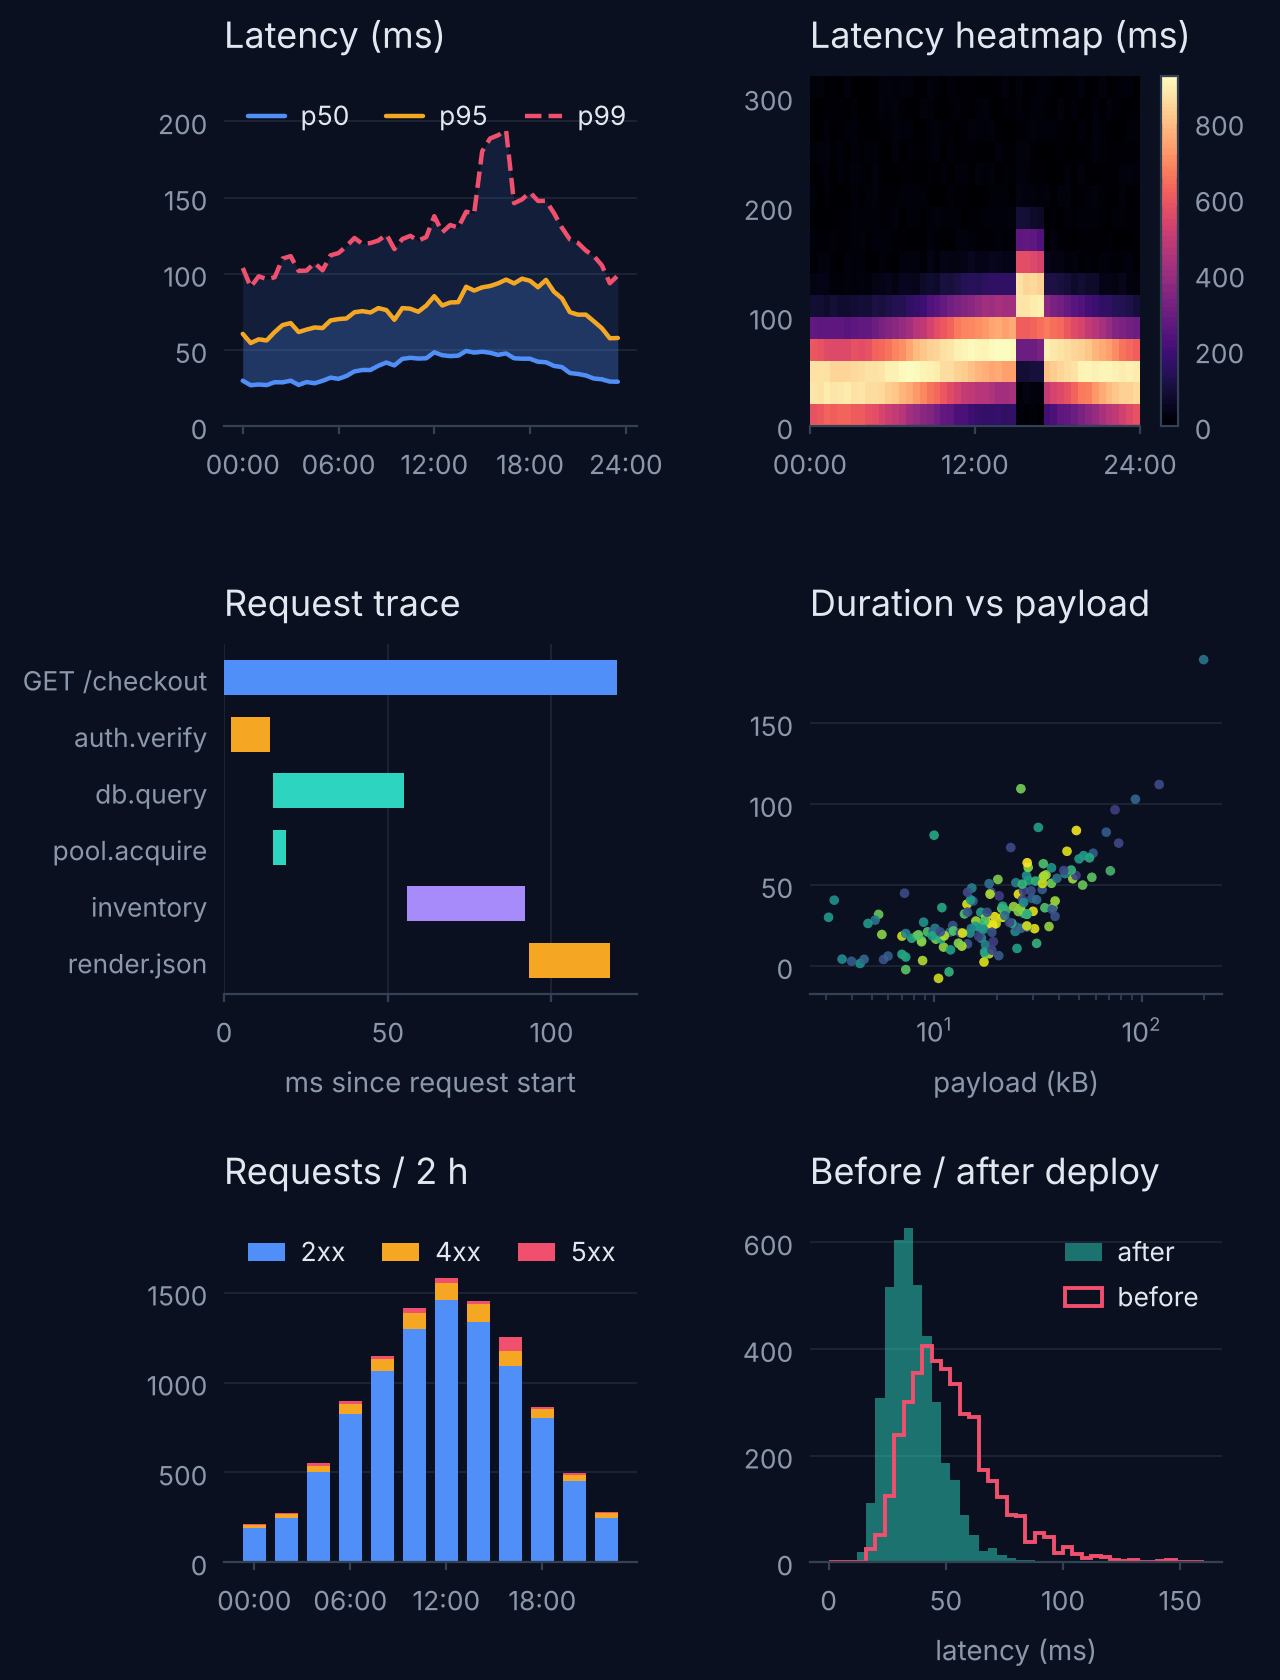
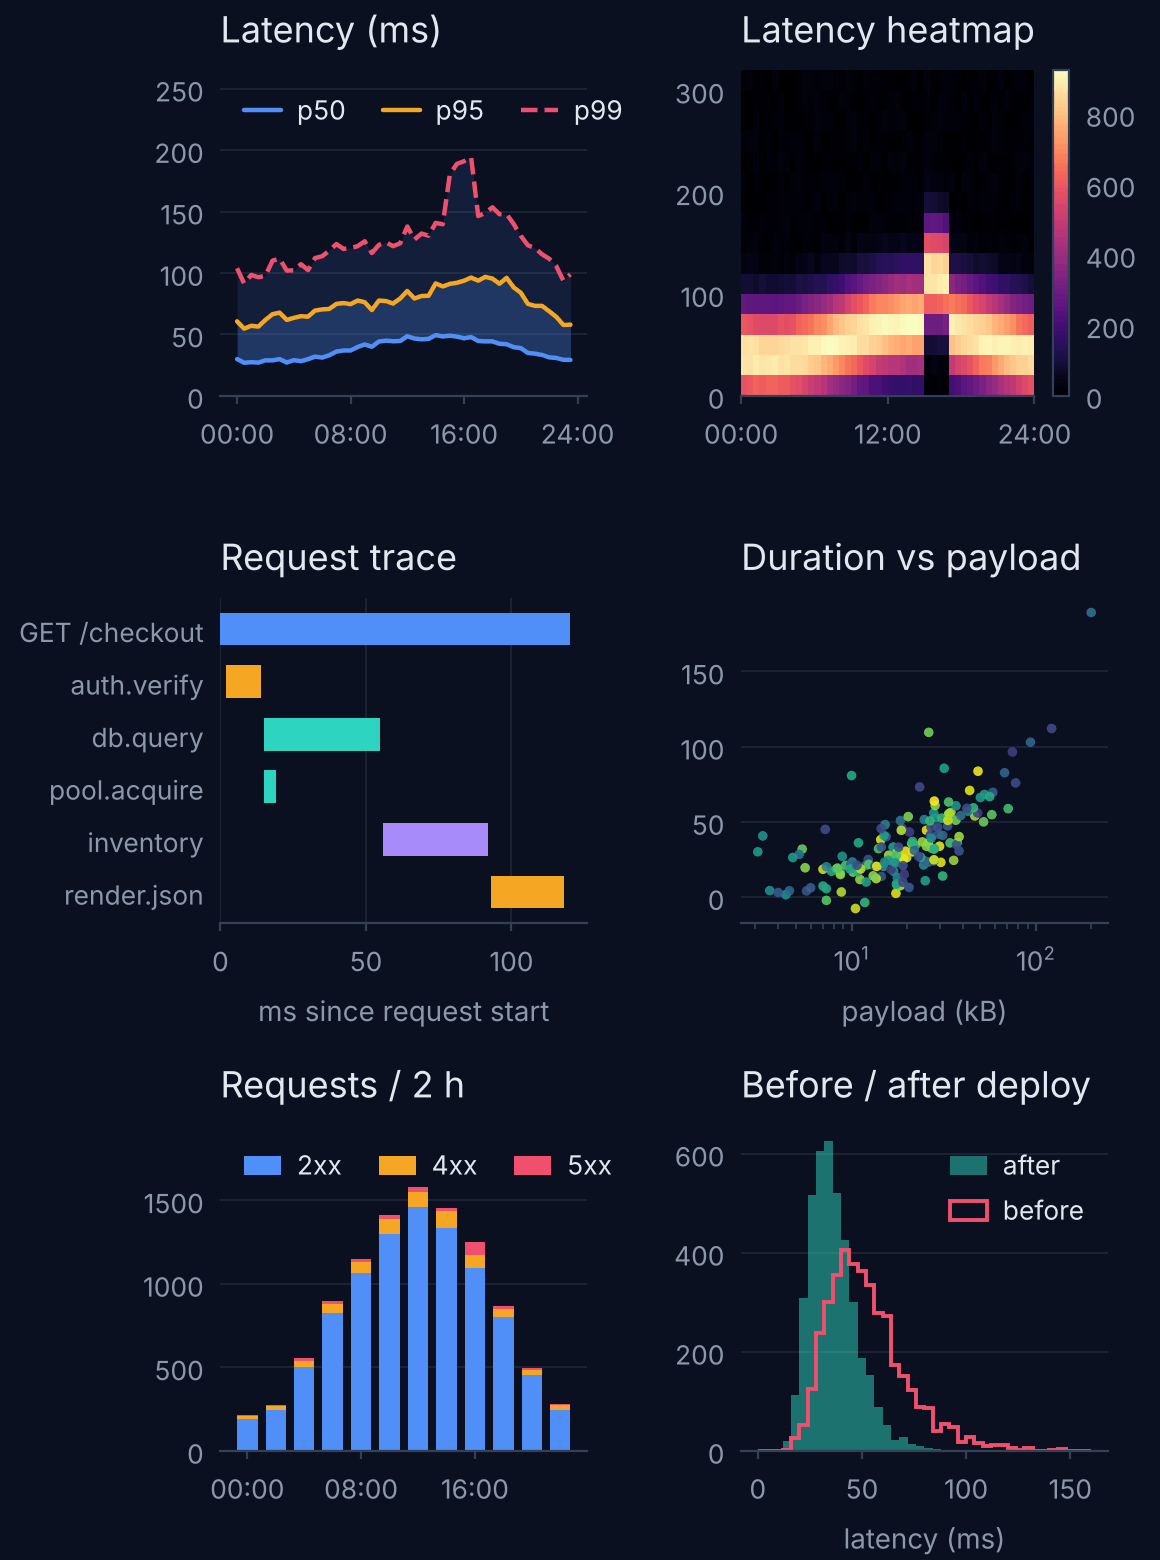
README: proof images first, code within mobile width, larger hero type
Claude-Session: https://claude.ai/code/session_01AoUnT3sji86cxB4AwysPwL

diff --git a/scripts/readme_images.ts b/scripts/readme_images.ts
@@ -45,8 +45,8 @@ export const HERO = [
 export function hero(style: string, heat: string, cmap: string, vmin: number): Figure {
   // larger type than the sheets' dashboard sizes: the gallery is read on a phone, about 360 px wide
   const rc = { 'font.size': 10, 'axes.titlesize': 13, 'axes.labelsize': 10, 'xtick.labelsize': 9.5, 'ytick.labelsize': 9.5, 'legend.fontsize': 9.5 };
-  const [fig, ax] = subplots(3, 2, { figsize: [6.4, 8.4], style: [style, rc] });
-  const ticks = [0, 6, 12, 18, 24], tickLabels = ['00:00', '06:00', '12:00', '18:00', '24:00'];
+  const [fig, ax] = subplots(3, 2, { figsize: [5.8, 7.8], style: [style, rc] });
+  const ticks = [0, 8, 16, 24], tickLabels = ['00:00', '08:00', '16:00', '24:00'];
 
   const lat = ax[0][0];
   lat.fill_between(D.hours, D.p50, D.p99, { color: 'C0', alpha: 0.12, linewidth: 0 });
@@ -55,14 +55,14 @@ export function hero(style: string, heat: string, cmap: string, vmin: number): F
   lat.plot(D.hours, D.p95, { color: 'C1', label: 'p95' });
   lat.plot(D.hours, D.p99, { color: 'C3', label: 'p99', linestyle: '--' });
   lat.set_xticks(ticks); lat.set_xticklabels(tickLabels);
-  lat.set_ylim(0, 230);
+  lat.set_ylim(0, 265);
   lat.legend({ loc: 'upper left', ncols: 3 });
   lat.set_title('Latency (ms)');
 
   const hm = ax[0][1];
   const im = hm.imshow(D.heat, { cmap: heat, origin: 'lower', aspect: 'auto', interpolation: 'nearest', extent: [0, 24, 0, 320] });
   hm.set_xticks([0, 12, 24]); hm.set_xticklabels(['00:00', '12:00', '24:00']);
-  hm.set_title('Latency heatmap (ms)');
+  hm.set_title('Latency heatmap');
   hm.grid(false);
   fig.colorbar(im, { ax: hm });
 
@@ -86,7 +86,7 @@ export function hero(style: string, heat: string, cmap: string, vmin: number): F
   req.bar(hrs, D.e4, { bottom: D.ok, color: 'C1', width: 1.44, label: '4xx' });
   req.bar(hrs, D.e5, { bottom: D.ok.map((v, i) => v + D.e4[i]), color: 'C3', width: 1.44, label: '5xx' });
   req.legend({ loc: 'upper left', ncols: 3 });
-  req.set_xticks([0, 6, 12, 18]); req.set_xticklabels(['00:00', '06:00', '12:00', '18:00']);
+  req.set_xticks([0, 8, 16]); req.set_xticklabels(['00:00', '08:00', '16:00']);
   req.set_ylim(0, 1950);
   req.set_title('Requests / 2 h');
 
@@ -97,7 +97,7 @@ export function hero(style: string, heat: string, cmap: string, vmin: number): F
   hs.set_xlabel('latency (ms)');
   hs.set_title('Before / after deploy');
 
-  fig.subplots_adjust({ left: 0.175, right: 0.955, bottom: 0.07, top: 0.955, wspace: 0.42, hspace: 0.62 });
+  fig.subplots_adjust({ left: 0.19, right: 0.955, bottom: 0.07, top: 0.955, wspace: 0.42, hspace: 0.62 });
   return fig;
 }
 

diff --git a/README.md b/README.md
@@ -18,67 +18,80 @@ rendering — its layout, tickers, text and its Agg rasterizer — that runs in 
 
 ## Same code, same pixels
 
-matplotlib, in Python:
-
-```python
-import matplotlib.pyplot as plt
-
-spans = [("GET /api/checkout", 0, 120, "C0"), ("├─ auth.verify", 2, 14, "C1"),
-         ("├─ db.query orders", 15, 55, "C2"), ("└─ pool.acquire", 15, 19, "C2"),
-         ("├─ inventory.reserve", 56, 92, "C4"), ("└─ render.json", 93, 118, "C1")]
-
-plt.rcParams["axes.axisbelow"] = True
-fig, ax = plt.subplots()
-rows = range(len(spans))
-ax.barh(rows, [e - s for _, s, e, _ in spans], left=[s for _, s, _, _ in spans],
-        color=[c for *_, c in spans], height=0.6)
-ax.set_yticks(rows, [l for l, *_ in spans])
-ax.get_yticklabels()[0].set_fontweight("bold")
-ax.set_ylim(len(spans) - 0.4, -0.6)
-ax.set_xlabel("ms since request start")
-ax.set_title("Checkout request trace", loc="left")
-ax.grid(True, axis="x", color="0.85", linestyle="--", linewidth=0.8)
-ax.spines[["top", "right"]].set_visible(False)
-fig.tight_layout()
-fig.savefig("trace.png")
-```
-
-mpljs, in TypeScript ([`examples/gantt.ts`](examples/gantt.ts)):
-
-```ts
-import { registerFonts, subplots } from 'mpl';
-import { dejavuSansBold } from 'mpl/fonts/dejavu-sans-bold';   // faces load on demand
-registerFonts(dejavuSansBold);
-
-const spans = [['GET /api/checkout', 0, 120, 'C0'], ['├─ auth.verify', 2, 14, 'C1'],
-  ['├─ db.query orders', 15, 55, 'C2'], ['└─ pool.acquire', 15, 19, 'C2'],
-  ['├─ inventory.reserve', 56, 92, 'C4'], ['└─ render.json', 93, 118, 'C1']] as const;
-
-const [fig, ax] = subplots({ rc: { 'axes.axisbelow': true } });
-const rows = spans.map((_, i) => i);
-ax.barh(rows, spans.map(([, s, e]) => e - s), { left: spans.map(([, s]) => s),
-  color: spans.map(([, , , c]) => c), height: 0.6 });
-ax.set_yticks(rows);
-ax.set_yticklabels(spans.map(([l]) => l));
-ax.get_yticklabels()[0].set_fontweight('bold');
-ax.set_ylim(spans.length - 0.4, -0.6);
-ax.set_xlabel('ms since request start');
-ax.set_title('Checkout request trace', { loc: 'left' });
-ax.grid(true, { axis: 'x', color: '0.85', linestyle: '--', linewidth: 0.8 });
-ax.spines.top.set_visible(false);
-ax.spines.right.set_visible(false);
-fig.tight_layout();
-const png = fig.toPNGSync();
-```
-
 <p align="center">
-  <img src="fixtures/ref/example_gantt_trace.png" width="49%" alt="The request trace rendered by matplotlib 3.11.2">
+  <img src="fixtures/ref/example_gantt_trace.png" width="49%" alt="A request trace as a Gantt chart, rendered by matplotlib 3.11.2">
   <img src="docs/images/gantt.png" width="49%" alt="The same request trace rendered by mpljs, identical">
 </p>
 
 **Left: matplotlib 3.11.2. Right: mpljs.** All 307,200 pixels are identical. The left image is matplotlib's own
 `savefig` output, committed as [`fixtures/ref/example_gantt_trace.png`](fixtures/ref/example_gantt_trace.png);
-[`test/examples.test.ts`](test/examples.test.ts) checks the right one against it on every CI run.
+[`test/examples.test.ts`](test/examples.test.ts) checks the right one against it on every CI run. The code is the
+same, call for call:
+
+```python
+import matplotlib.pyplot as plt
+
+spans = [
+    ("GET /api/checkout", 0, 120, "C0"),
+    ("├─ auth.verify", 2, 14, "C1"),
+    ("├─ db.query orders", 15, 55, "C2"),
+    ("└─ pool.acquire", 15, 19, "C2"),
+    ("├─ inventory.reserve", 56, 92, "C4"),
+    ("└─ render.json", 93, 118, "C1"),
+]
+labels, starts, ends, colors = zip(*spans)
+rows = range(len(spans))
+
+plt.rcParams["axes.axisbelow"] = True
+fig, ax = plt.subplots()
+ax.barh(rows, [e - s for s, e in zip(starts, ends)],
+        left=starts, color=colors, height=0.6)
+ax.set_yticks(rows, labels)
+ax.get_yticklabels()[0].set_fontweight("bold")
+ax.set_ylim(len(spans) - 0.4, -0.6)
+ax.set_xlabel("ms since request start")
+ax.set_title("Checkout request trace", loc="left")
+ax.grid(True, axis="x", color="0.85",
+        linestyle="--", linewidth=0.8)
+ax.spines[["top", "right"]].set_visible(False)
+fig.tight_layout()
+fig.savefig("trace.png")
+```
+
+```ts
+import { registerFonts, subplots } from 'mpl';
+import { dejavuSansBold } from 'mpl/fonts/dejavu-sans-bold';
+registerFonts(dejavuSansBold);   // faces are opt-in modules
+
+const spans = [
+  ['GET /api/checkout', 0, 120, 'C0'],
+  ['├─ auth.verify', 2, 14, 'C1'],
+  ['├─ db.query orders', 15, 55, 'C2'],
+  ['└─ pool.acquire', 15, 19, 'C2'],
+  ['├─ inventory.reserve', 56, 92, 'C4'],
+  ['└─ render.json', 93, 118, 'C1'],
+] as const;
+const rows = spans.map((_, i) => i);
+
+const [fig, ax] = subplots({ rc: { 'axes.axisbelow': true } });
+ax.barh(rows, spans.map(([, s, e]) => e - s), {
+  left: spans.map(([, s]) => s),
+  color: spans.map(([, , , c]) => c),
+  height: 0.6,
+});
+ax.set_yticks(rows);
+ax.set_yticklabels(spans.map(([label]) => label));
+ax.get_yticklabels()[0].set_fontweight('bold');
+ax.set_ylim(spans.length - 0.4, -0.6);
+ax.set_xlabel('ms since request start');
+ax.set_title('Checkout request trace', { loc: 'left' });
+ax.grid(true, { axis: 'x', color: '0.85',
+  linestyle: '--', linewidth: 0.8 });
+ax.spines.top.set_visible(false);
+ax.spines.right.set_visible(false);
+fig.tight_layout();
+const png = fig.toPNGSync();
+```
 
 That is the rule for the whole library, not one demo: `node test/compare.ts` replays every fixture matplotlib
 generated and compares the decoded pixels — **366 of 366 pixel-exact** at the time of writing — plus tick, label and
@@ -99,12 +112,12 @@ npm install github:ivarvong/mpl
 import { writeFileSync } from 'node:fs';
 import { subplots } from 'mpl';
 
-const x = Array.from({ length: 200 }, (_, i) => (i / 199) * 4 * Math.PI);
+const x = Array.from({ length: 200 }, (_, i) => i / 16);
 const [fig, ax] = subplots();
 ax.plot(x, x.map(Math.sin), { label: 'sin(x)' });
 ax.plot(x, x.map(Math.cos), '--', { label: 'cos(x)' });
 ax.legend();
-writeFileSync('chart.png', fig.toPNGSync({ scale: 2 }));   // retina PNG
+writeFileSync('chart.png', fig.toPNGSync({ scale: 2 }));
 writeFileSync('chart.svg', fig.toSVG());
 ```
 
@@ -117,7 +130,9 @@ export default {
   fetch(): Response {
     const [fig, ax] = subplots();
     ax.bar(['api', 'web', 'worker'], [120, 85, 42]);
-    return new Response(fig.pngStream({ scale: 2 }), { headers: { 'content-type': 'image/png' } });
+    return new Response(fig.pngStream({ scale: 2 }), {
+      headers: { 'content-type': 'image/png' },
+    });
   },
 };
 ```
@@ -126,12 +141,12 @@ Browsers take the same import through any bundler. To try it in the repo: `git c
 
 ## What's in it
 
-- **Plots:** `plot`, `step`, `scatter`, `bar`/`barh`, `hist`, `errorbar`, `boxplot`, `fill_between`, `imshow` +
-  `colorbar`, `axhline`/`axvline`/`axline`, `hlines`/`vlines`, `axhspan`/`axvspan`, `text`, `annotate`.
-- **Axes:** linear, log and date scales (`AutoDateLocator`, `ConciseDateFormatter`, `Year`…`SecondLocator`),
-  categories, `twinx`, inverted axes, shared axes, `set_aspect`.
-- **Layout:** `subplots` grids with `sharex`/`sharey` and width/height ratios, `tight_layout`, `subplots_adjust`,
-  `suptitle`/`supxlabel`/`supylabel`, legends including `loc='best'`.
+- **Plots:** line, step, scatter, bar and barh, hist, errorbar, boxplot, fill_between, imshow with colorbar,
+  reference lines and spans, text and annotate.
+- **Axes:** linear, log and date scales (matplotlib's date locators and formatters), categories, twinx, inverted
+  and shared axes, aspect.
+- **Layout:** subplot grids with shared axes and width/height ratios, tight_layout, subplots_adjust, figure
+  titles and labels, legends including `loc='best'`.
 - **Style:** matplotlib's bundled `.mplstyle` sheets, four dashboard themes (`pro-dark`, `pro-mono`, `pro-ember`,
   `pro-slate`, each pixel-exact against matplotlib), rc overrides. Fonts: DejaVu Sans/Serif and Inter.
 - **Colormaps:** viridis, plasma, inferno, magma, cividis, twilight, turbo, coolwarm, RdBu, Greys, Blues, tab10,
